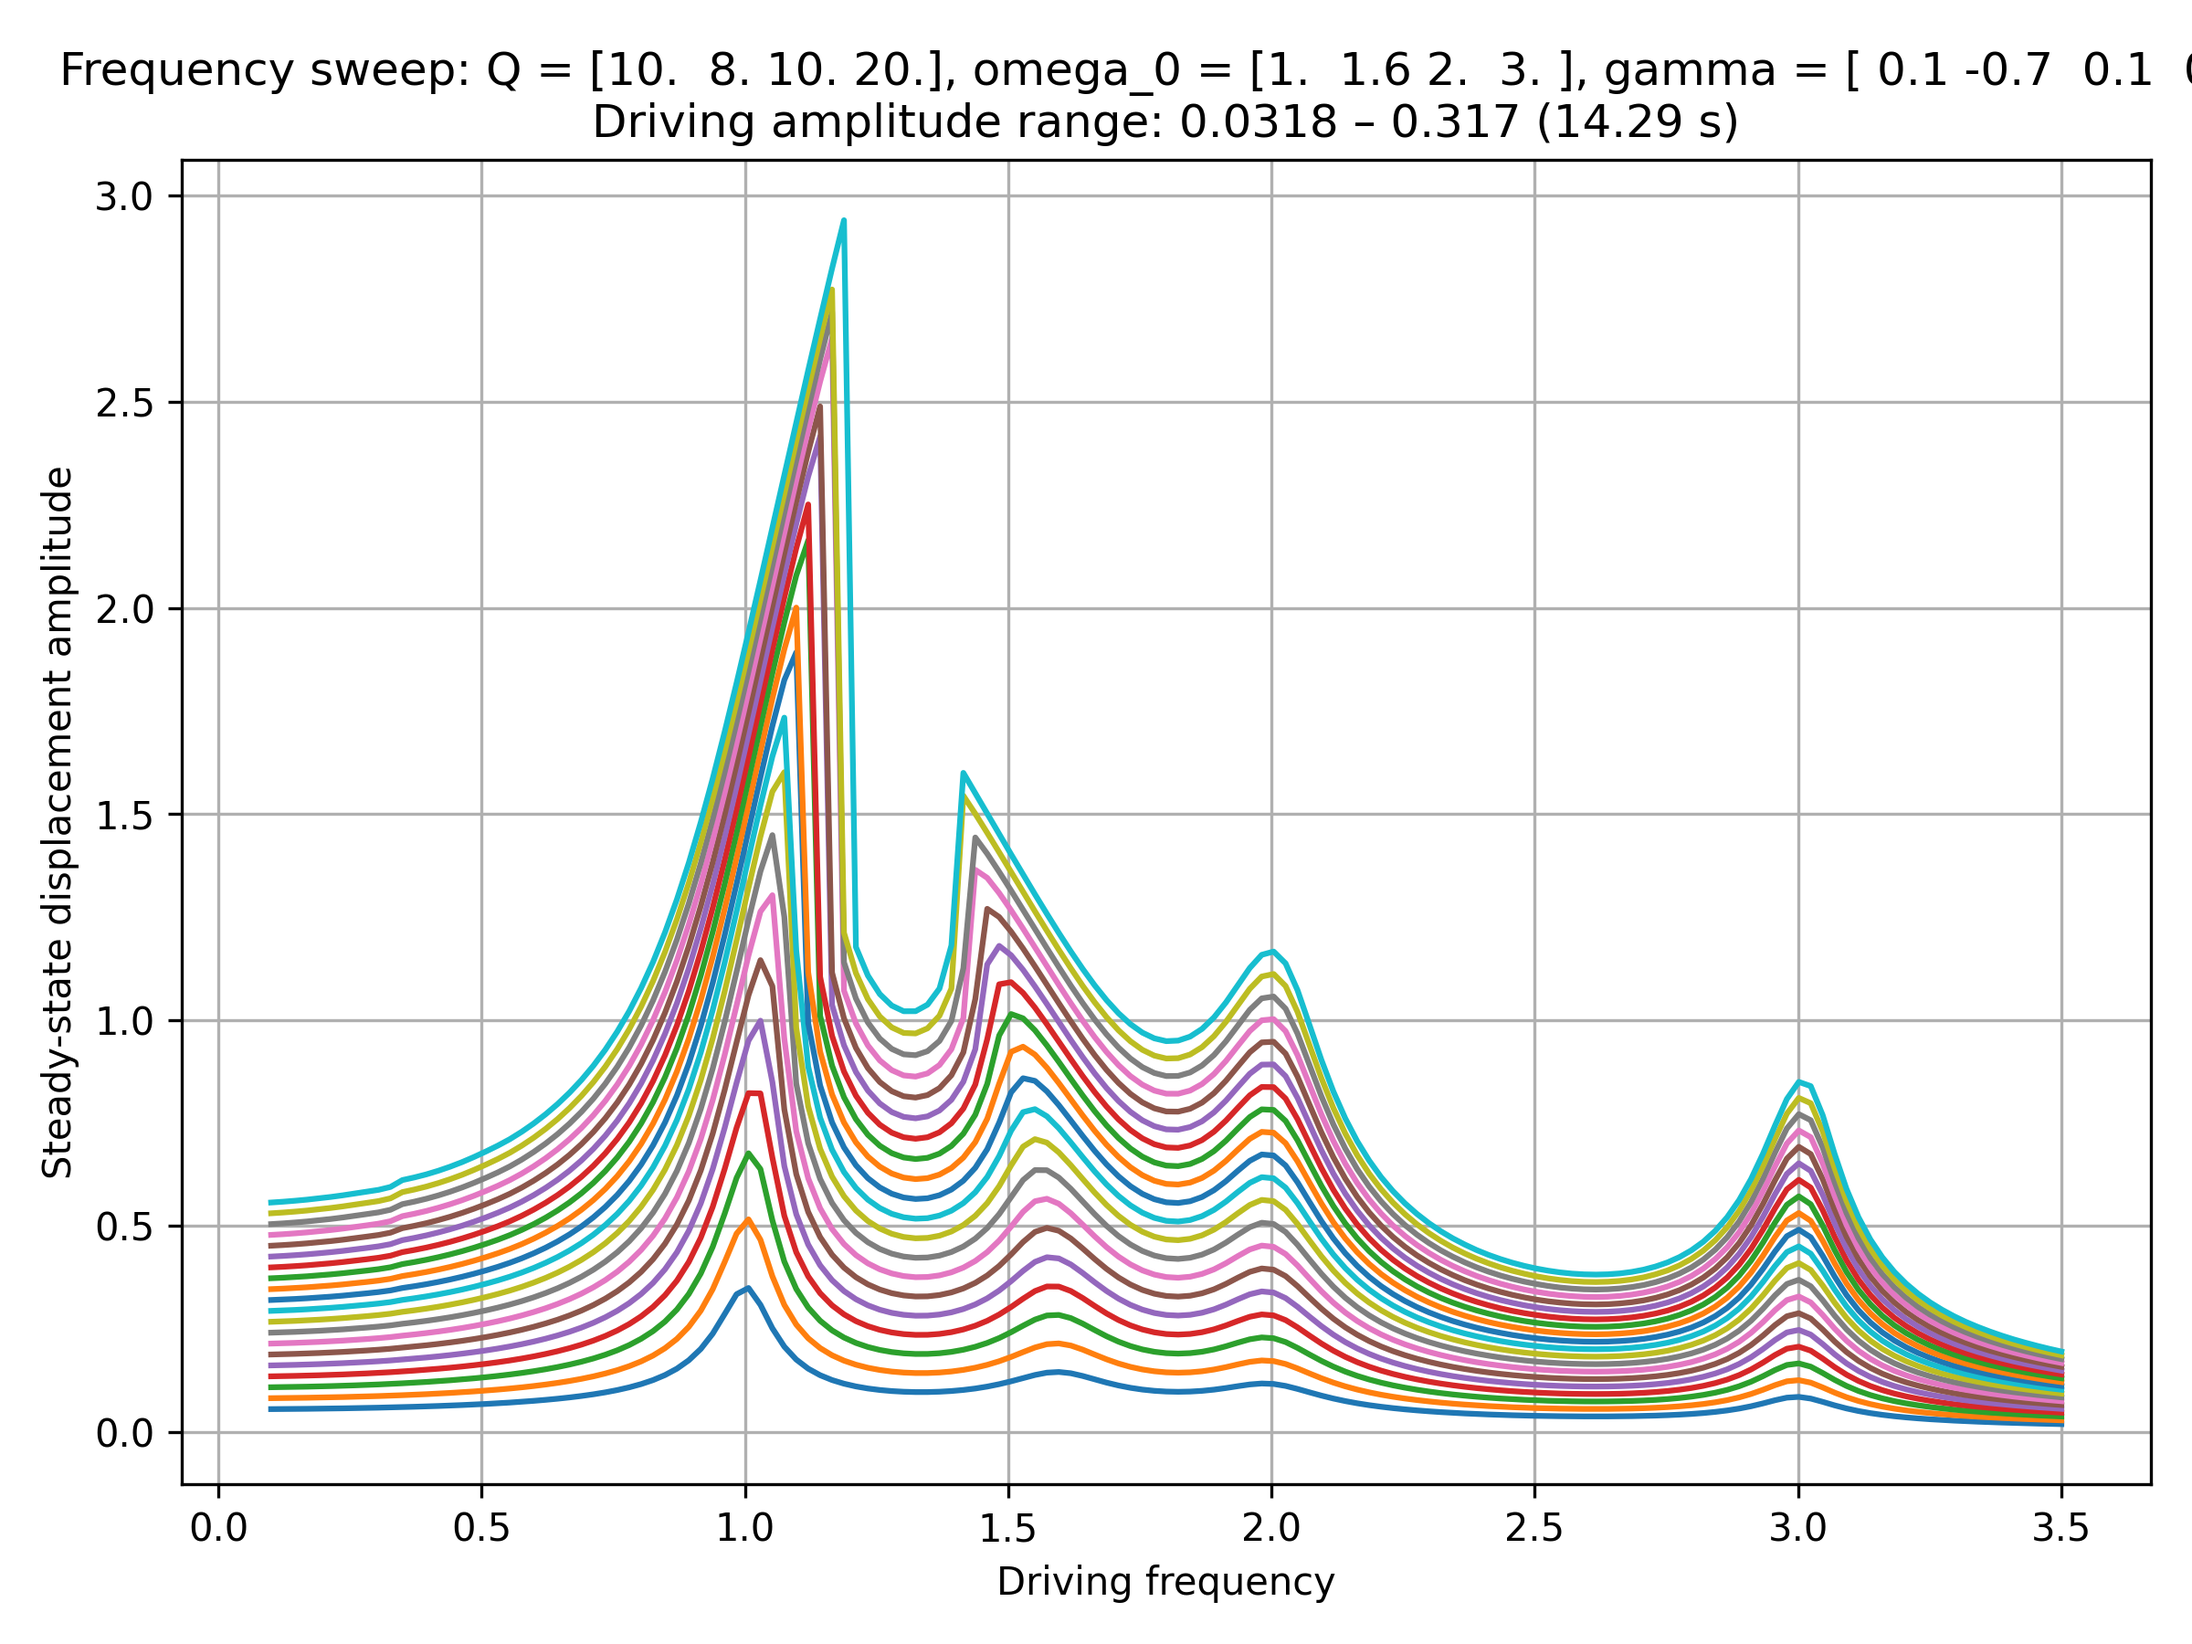
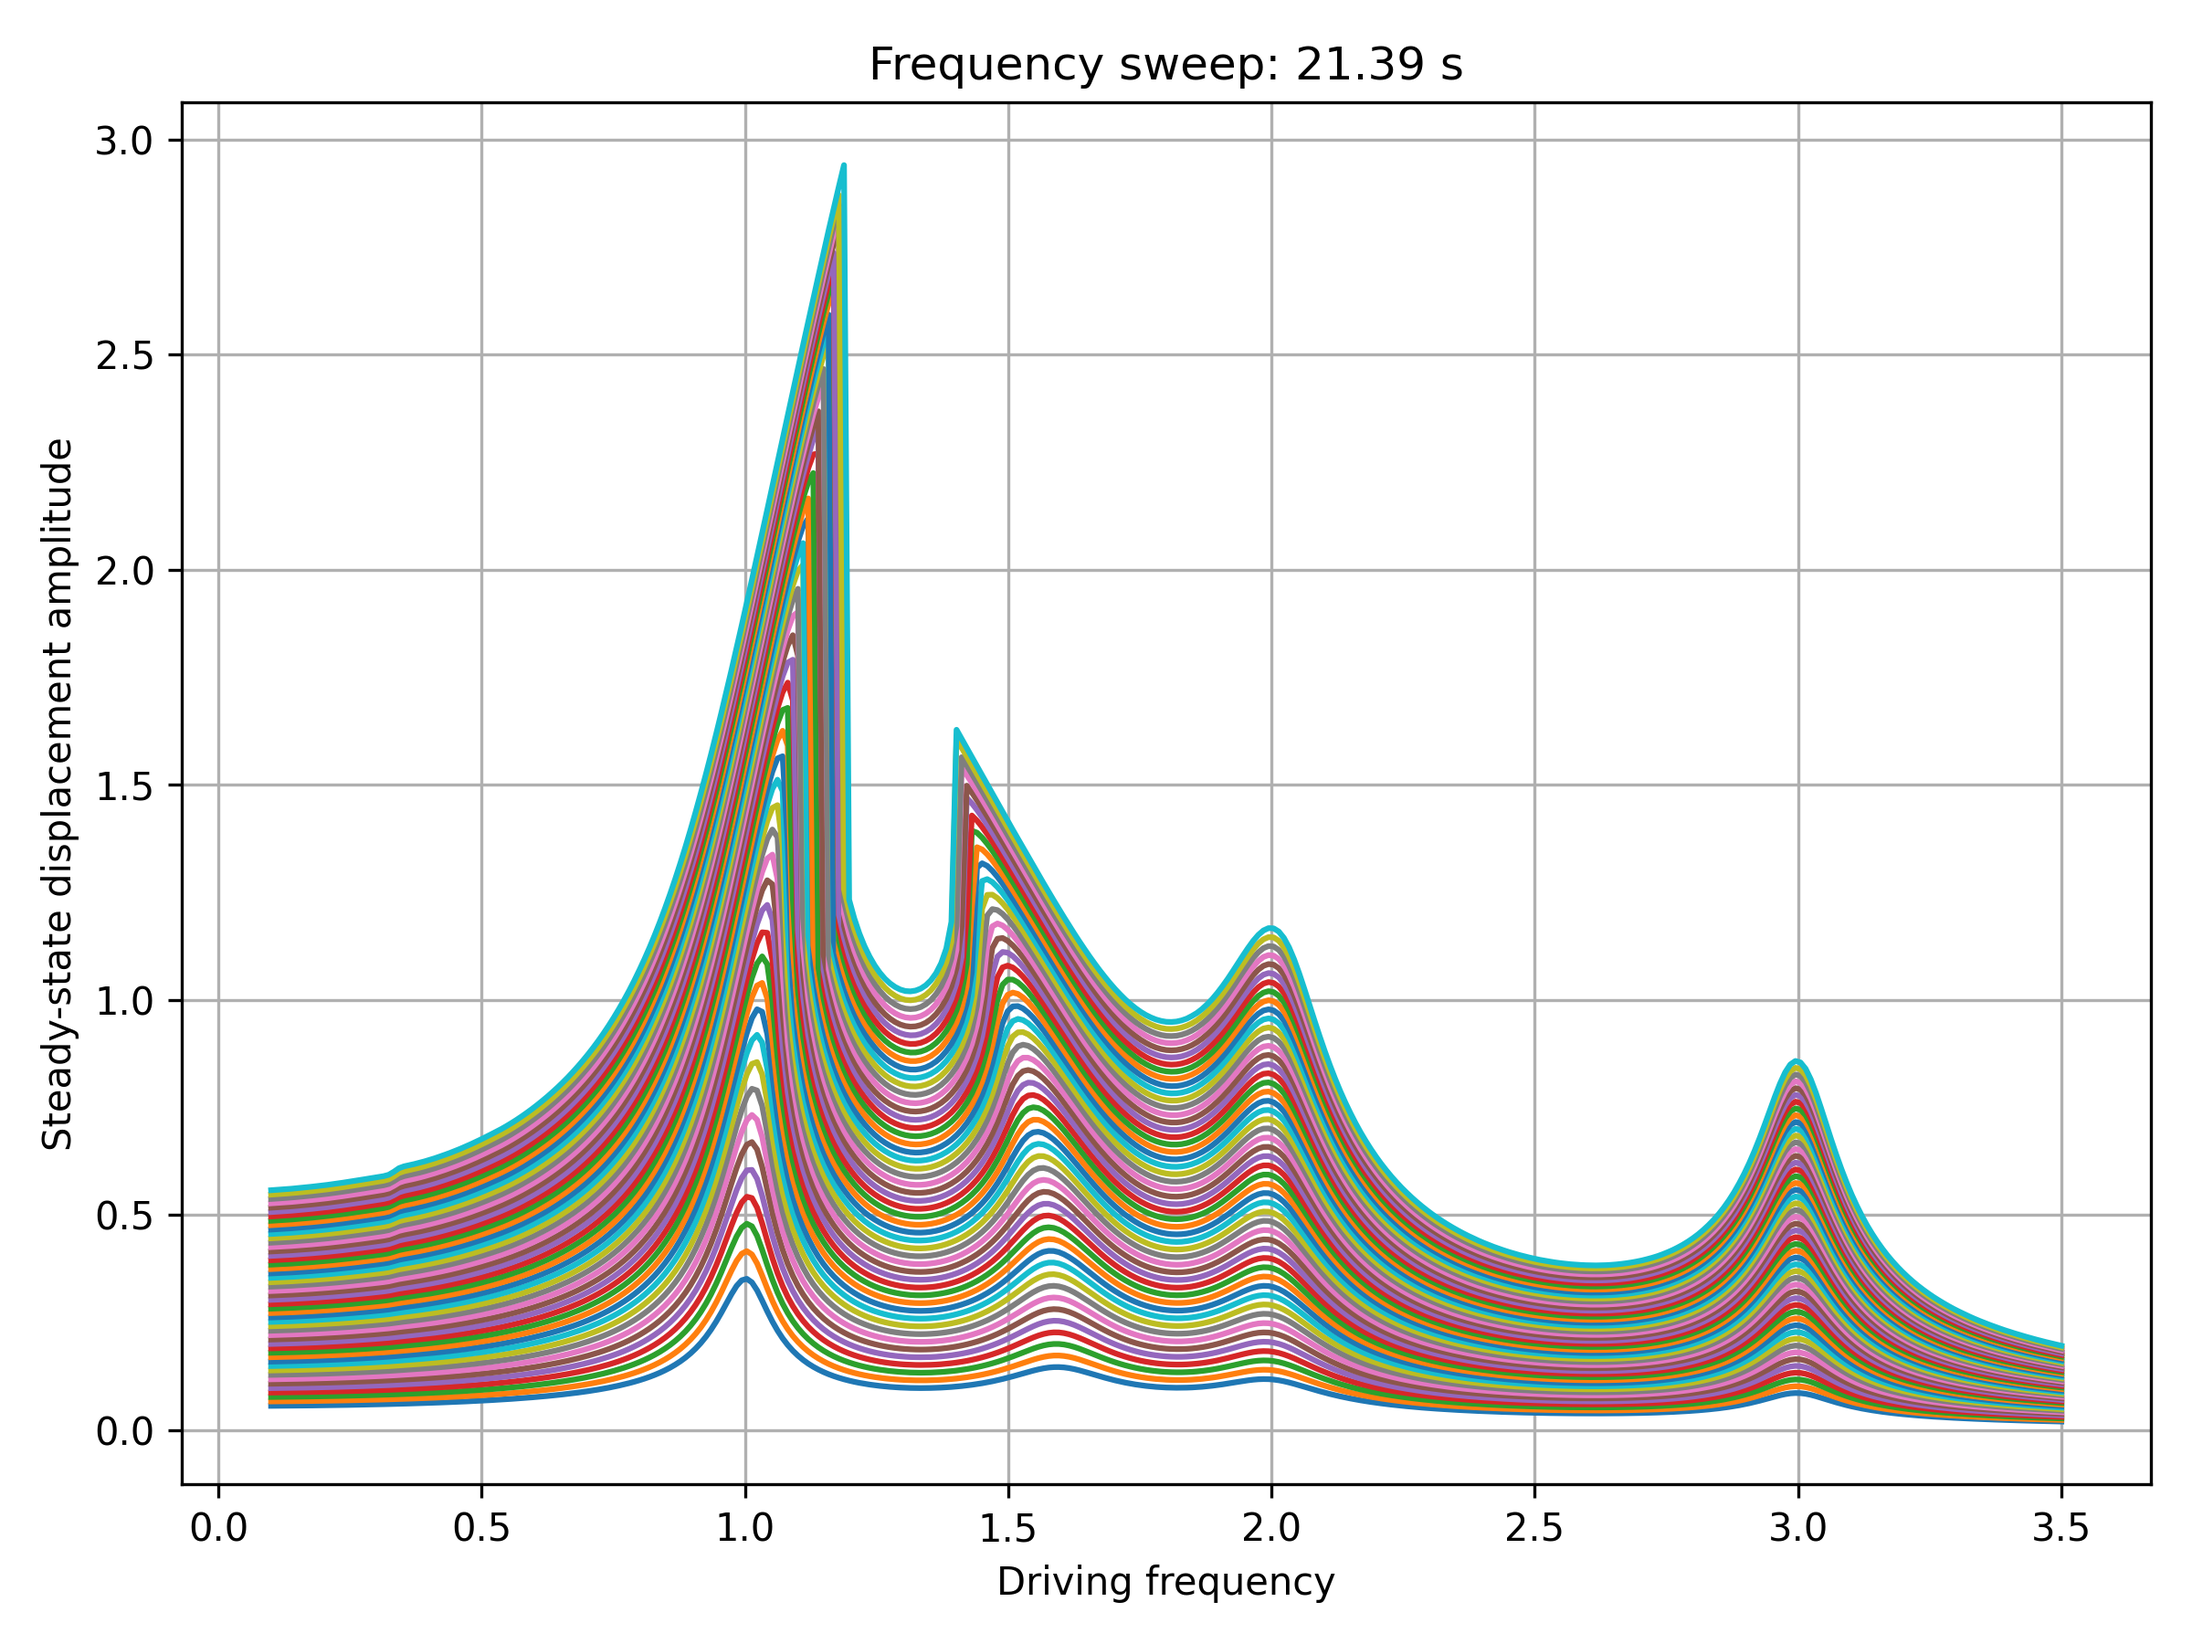
Testing with MDOF

Changed region(s): [[0.0, 0.0311, 1.0, 0.8711]]

diff --git a/tests/frequency_sweep/test_frequency_sweep.py b/tests/frequency_sweep/test_frequency_sweep.py
@@ -2,14 +2,20 @@ from jax import numpy as jnp
 import time
 import oscidyn
 
-Q, omega_0, gamma = jnp.array([10.0, 8.0, 10.0, 20.0]), jnp.array([1.0, 1.6, 2.0, 3.0]), jnp.array([0.1, -0.7, 0.1, 0.2])
+Q, omega_0, gamma = jnp.array([10.0, 8.0, 10.0, 20.0]), jnp.array([1.0, 1.6, 2.0, 3.0]), jnp.zeros((4,4,4,4))
+
+gamma = gamma.at[0,0,0,0].set(0.1)
+gamma = gamma.at[1,1,1,1].set(-0.7)
+gamma = gamma.at[2,2,2,2].set(0.1)
+
+gamma = gamma.at[2,0,0,2].set(-0.0)
 full_width_half_max = omega_0 / Q
 
 MODEL = oscidyn.BaseDuffingOscillator.from_physical_params(Q=Q, gamma=gamma, omega_0=omega_0)
 SWEEP_DIRECTION = oscidyn.SweepDirection.FORWARD
 #DRIVING_FREQUENCY = jnp.linspace(1.0 - 25*full_width_half_max, 1.0 + 25*full_width_half_max, 101)
-DRIVING_FREQUENCY = jnp.linspace(0.1, 3.5, 151)
-DRIVING_AMPLITUDE = jnp.linspace(0.1 * (omega_0**2 / Q).mean(), 1.0 * (omega_0**2 / Q).mean(), 20)
+DRIVING_FREQUENCY = jnp.linspace(0.1, 3.5, 351)
+DRIVING_AMPLITUDE = jnp.linspace(0.1 * (omega_0**2 / Q).mean(), 1.0 * (omega_0**2 / Q).mean(), 50)
 SOLVER = oscidyn.FixedTimeSteadyStateSolver(max_steps=4_096*1000, rtol=1e-5, atol=1e-7, progress_bar=True)
 PRECISION = oscidyn.Precision.SINGLE
 
@@ -41,8 +47,7 @@ for i in range(DRIVING_AMPLITUDE.shape[0]):
 plt.xlabel("Driving frequency")
 plt.ylabel("Steady-state displacement amplitude")
 plt.title(
-    f"Frequency sweep: Q = {Q}, omega_0 = {omega_0}, gamma = {gamma}\n"
-    f"Driving amplitude range: {min_amp:.3g} – {max_amp:.3g} ({duration:.2f} s)"
+    f"Frequency sweep: {duration:.2f} s"
 )
 plt.grid(True)
 plt.tight_layout()

diff --git a/src/oscidyn/simulation/models.py b/src/oscidyn/simulation/models.py
@@ -34,7 +34,8 @@ class BaseDuffingOscillator(AbstractModel):
 
         damping_term = self.g1 * dq_dt
         linear_stiffness_term = self.g2 * q
-        cubic_stiffness_term = self.g3 * q**3
+        #cubic_stiffness_term = self.g3 * q**3
+        cubic_stiffness_term = jnp.einsum("ijkl,j,k,l->i", self.g3, q, q, q) # Shape: (n_modes,)
         #forcing_term = jnp.zeros((self.n_modes,)).at[:1].set(g4 * jnp.cos(g5 * t))
         forcing_term = jnp.ones((self.n_modes,)) * (g4 * jnp.cos(g5 * t))
 
